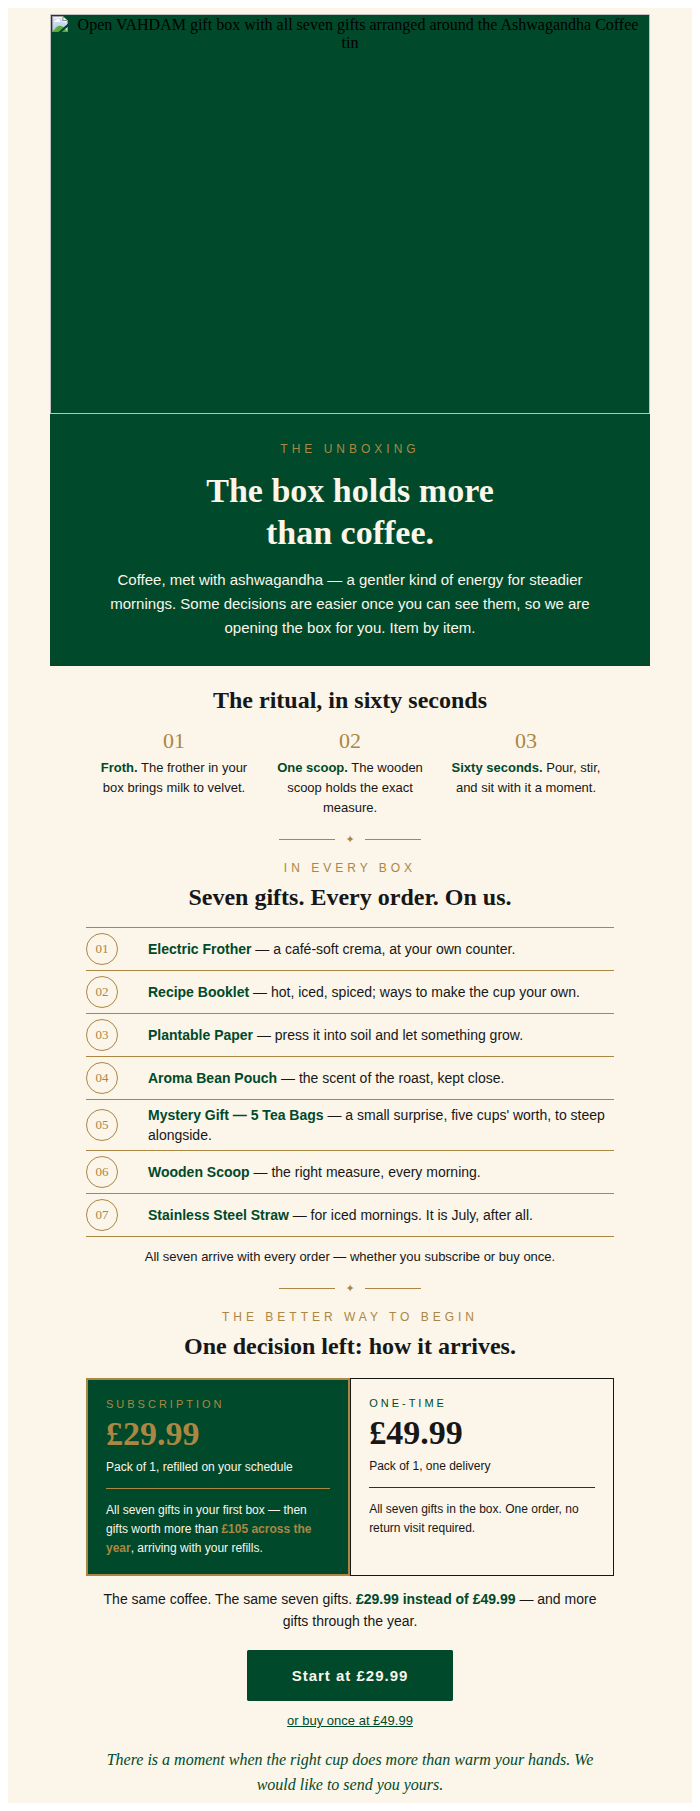
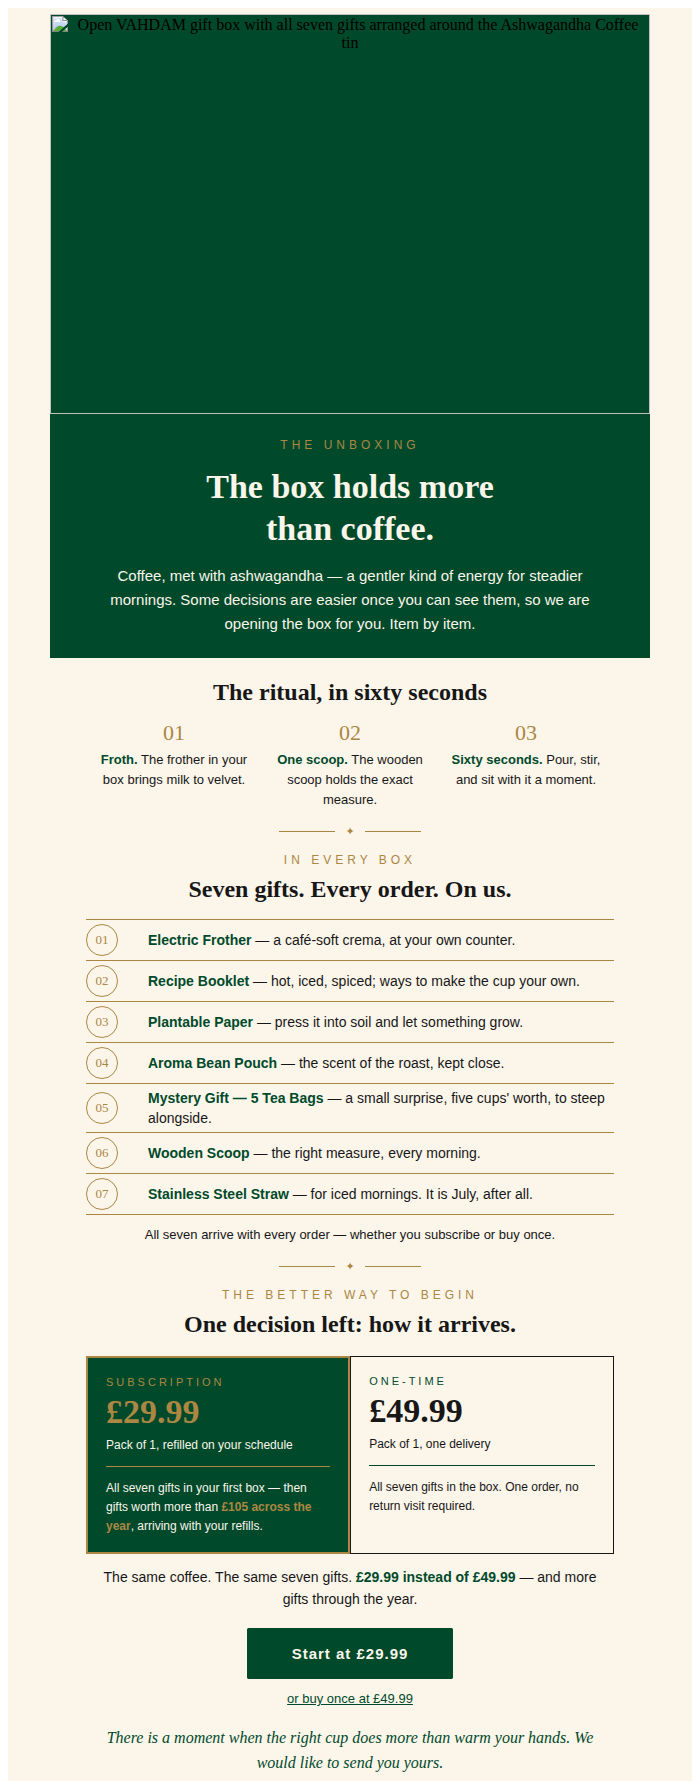
wip: cohort A enrichment in progress
Claude-Session: https://claude.ai/code/session_01YPMcExrEXCW3NKxJNMzABm

diff --git a/lifecycle-campaigns/2026-07-03_week1/emails/2026-07-06_cohortA_gifts-unboxing-subscription.html b/lifecycle-campaigns/2026-07-03_week1/emails/2026-07-06_cohortA_gifts-unboxing-subscription.html
@@ -29,7 +29,7 @@ Facts source: lifecycle-campaigns/2026-07-03_week1/facts.md — nothing claimed 
 
         <!-- ============ TYPOGRAPHIC HERO ============ -->
         <tr>
-          <td bgcolor="#004A2B" style="background-color:#004A2B;padding:28px 44px 26px 44px;">
+          <td bgcolor="#004A2B" style="background-color:#004A2B;padding:24px 44px 22px 44px;">
             <table role="presentation" width="100%" cellpadding="0" cellspacing="0" border="0">
               <tr>
                 <td align="center" style="font-family:'Proxima Nova','Helvetica Neue',Arial,sans-serif;font-size:12px;letter-spacing:4px;color:#AB8743;padding-bottom:14px;">THE UNBOXING</td>
@@ -104,46 +104,46 @@ Facts source: lifecycle-campaigns/2026-07-03_week1/facts.md — nothing claimed 
             <!-- Built graphic: numbered gold badge cells (bordered squares, border-radius as progressive enhancement) -->
             <table role="presentation" width="100%" cellpadding="0" cellspacing="0" border="0" style="border-top:1px solid #AB8743;">
               <tr>
-                <td width="50" valign="middle" style="padding:5px 0;border-bottom:1px solid #AB8743;">
+                <td width="50" valign="middle" style="padding:4px 0;border-bottom:1px solid #AB8743;">
                   <table role="presentation" cellpadding="0" cellspacing="0" border="0"><tr><td width="30" height="30" align="center" valign="middle" style="width:30px;height:30px;border:1px solid #AB8743;border-radius:50%;font-family:'Lao MN','Cormorant Garamond',Georgia,serif;font-size:13px;line-height:30px;color:#AB8743;">01</td></tr></table>
                 </td>
-                <td valign="middle" style="padding:5px 4px 5px 12px;font-family:'Proxima Nova','Helvetica Neue',Arial,sans-serif;font-size:14px;line-height:20px;color:#171717;border-bottom:1px solid #AB8743;"><strong style="color:#004A2B;">Electric Frother</strong> &mdash; a caf&eacute;-soft crema, at your own counter.</td>
+                <td valign="middle" style="padding:4px 4px 4px 12px;font-family:'Proxima Nova','Helvetica Neue',Arial,sans-serif;font-size:14px;line-height:20px;color:#171717;border-bottom:1px solid #AB8743;"><strong style="color:#004A2B;">Electric Frother</strong> &mdash; a caf&eacute;-soft crema, at your own counter.</td>
               </tr>
               <tr>
-                <td width="50" valign="middle" style="padding:5px 0;border-bottom:1px solid #AB8743;">
+                <td width="50" valign="middle" style="padding:4px 0;border-bottom:1px solid #AB8743;">
                   <table role="presentation" cellpadding="0" cellspacing="0" border="0"><tr><td width="30" height="30" align="center" valign="middle" style="width:30px;height:30px;border:1px solid #AB8743;border-radius:50%;font-family:'Lao MN','Cormorant Garamond',Georgia,serif;font-size:13px;line-height:30px;color:#AB8743;">02</td></tr></table>
                 </td>
-                <td valign="middle" style="padding:5px 4px 5px 12px;font-family:'Proxima Nova','Helvetica Neue',Arial,sans-serif;font-size:14px;line-height:20px;color:#171717;border-bottom:1px solid #AB8743;"><strong style="color:#004A2B;">Recipe Booklet</strong> &mdash; hot, iced, spiced; ways to make the cup your own.</td>
+                <td valign="middle" style="padding:4px 4px 4px 12px;font-family:'Proxima Nova','Helvetica Neue',Arial,sans-serif;font-size:14px;line-height:20px;color:#171717;border-bottom:1px solid #AB8743;"><strong style="color:#004A2B;">Recipe Booklet</strong> &mdash; hot, iced, spiced; ways to make the cup your own.</td>
               </tr>
               <tr>
-                <td width="50" valign="middle" style="padding:5px 0;border-bottom:1px solid #AB8743;">
+                <td width="50" valign="middle" style="padding:4px 0;border-bottom:1px solid #AB8743;">
                   <table role="presentation" cellpadding="0" cellspacing="0" border="0"><tr><td width="30" height="30" align="center" valign="middle" style="width:30px;height:30px;border:1px solid #AB8743;border-radius:50%;font-family:'Lao MN','Cormorant Garamond',Georgia,serif;font-size:13px;line-height:30px;color:#AB8743;">03</td></tr></table>
                 </td>
-                <td valign="middle" style="padding:5px 4px 5px 12px;font-family:'Proxima Nova','Helvetica Neue',Arial,sans-serif;font-size:14px;line-height:20px;color:#171717;border-bottom:1px solid #AB8743;"><strong style="color:#004A2B;">Plantable Paper</strong> &mdash; press it into soil and let something grow.</td>
+                <td valign="middle" style="padding:4px 4px 4px 12px;font-family:'Proxima Nova','Helvetica Neue',Arial,sans-serif;font-size:14px;line-height:20px;color:#171717;border-bottom:1px solid #AB8743;"><strong style="color:#004A2B;">Plantable Paper</strong> &mdash; press it into soil and let something grow.</td>
               </tr>
               <tr>
-                <td width="50" valign="middle" style="padding:5px 0;border-bottom:1px solid #AB8743;">
+                <td width="50" valign="middle" style="padding:4px 0;border-bottom:1px solid #AB8743;">
                   <table role="presentation" cellpadding="0" cellspacing="0" border="0"><tr><td width="30" height="30" align="center" valign="middle" style="width:30px;height:30px;border:1px solid #AB8743;border-radius:50%;font-family:'Lao MN','Cormorant Garamond',Georgia,serif;font-size:13px;line-height:30px;color:#AB8743;">04</td></tr></table>
                 </td>
-                <td valign="middle" style="padding:5px 4px 5px 12px;font-family:'Proxima Nova','Helvetica Neue',Arial,sans-serif;font-size:14px;line-height:20px;color:#171717;border-bottom:1px solid #AB8743;"><strong style="color:#004A2B;">Aroma Bean Pouch</strong> &mdash; the scent of the roast, kept close.</td>
+                <td valign="middle" style="padding:4px 4px 4px 12px;font-family:'Proxima Nova','Helvetica Neue',Arial,sans-serif;font-size:14px;line-height:20px;color:#171717;border-bottom:1px solid #AB8743;"><strong style="color:#004A2B;">Aroma Bean Pouch</strong> &mdash; the scent of the roast, kept close.</td>
               </tr>
               <tr>
-                <td width="50" valign="middle" style="padding:5px 0;border-bottom:1px solid #AB8743;">
+                <td width="50" valign="middle" style="padding:4px 0;border-bottom:1px solid #AB8743;">
                   <table role="presentation" cellpadding="0" cellspacing="0" border="0"><tr><td width="30" height="30" align="center" valign="middle" style="width:30px;height:30px;border:1px solid #AB8743;border-radius:50%;font-family:'Lao MN','Cormorant Garamond',Georgia,serif;font-size:13px;line-height:30px;color:#AB8743;">05</td></tr></table>
                 </td>
-                <td valign="middle" style="padding:5px 4px 5px 12px;font-family:'Proxima Nova','Helvetica Neue',Arial,sans-serif;font-size:14px;line-height:20px;color:#171717;border-bottom:1px solid #AB8743;"><strong style="color:#004A2B;">Mystery Gift &mdash; 5 Tea Bags</strong> &mdash; a small surprise, five cups' worth, to steep alongside.</td>
+                <td valign="middle" style="padding:4px 4px 4px 12px;font-family:'Proxima Nova','Helvetica Neue',Arial,sans-serif;font-size:14px;line-height:20px;color:#171717;border-bottom:1px solid #AB8743;"><strong style="color:#004A2B;">Mystery Gift &mdash; 5 Tea Bags</strong> &mdash; a small surprise, five cups' worth, to steep alongside.</td>
               </tr>
               <tr>
-                <td width="50" valign="middle" style="padding:5px 0;border-bottom:1px solid #AB8743;">
+                <td width="50" valign="middle" style="padding:4px 0;border-bottom:1px solid #AB8743;">
                   <table role="presentation" cellpadding="0" cellspacing="0" border="0"><tr><td width="30" height="30" align="center" valign="middle" style="width:30px;height:30px;border:1px solid #AB8743;border-radius:50%;font-family:'Lao MN','Cormorant Garamond',Georgia,serif;font-size:13px;line-height:30px;color:#AB8743;">06</td></tr></table>
                 </td>
-                <td valign="middle" style="padding:5px 4px 5px 12px;font-family:'Proxima Nova','Helvetica Neue',Arial,sans-serif;font-size:14px;line-height:20px;color:#171717;border-bottom:1px solid #AB8743;"><strong style="color:#004A2B;">Wooden Scoop</strong> &mdash; the right measure, every morning.</td>
+                <td valign="middle" style="padding:4px 4px 4px 12px;font-family:'Proxima Nova','Helvetica Neue',Arial,sans-serif;font-size:14px;line-height:20px;color:#171717;border-bottom:1px solid #AB8743;"><strong style="color:#004A2B;">Wooden Scoop</strong> &mdash; the right measure, every morning.</td>
               </tr>
               <tr>
-                <td width="50" valign="middle" style="padding:5px 0;border-bottom:1px solid #AB8743;">
+                <td width="50" valign="middle" style="padding:4px 0;border-bottom:1px solid #AB8743;">
                   <table role="presentation" cellpadding="0" cellspacing="0" border="0"><tr><td width="30" height="30" align="center" valign="middle" style="width:30px;height:30px;border:1px solid #AB8743;border-radius:50%;font-family:'Lao MN','Cormorant Garamond',Georgia,serif;font-size:13px;line-height:30px;color:#AB8743;">07</td></tr></table>
                 </td>
-                <td valign="middle" style="padding:5px 4px 5px 12px;font-family:'Proxima Nova','Helvetica Neue',Arial,sans-serif;font-size:14px;line-height:20px;color:#171717;border-bottom:1px solid #AB8743;"><strong style="color:#004A2B;">Stainless Steel Straw</strong> &mdash; for iced mornings. It is July, after all.</td>
+                <td valign="middle" style="padding:4px 4px 4px 12px;font-family:'Proxima Nova','Helvetica Neue',Arial,sans-serif;font-size:14px;line-height:20px;color:#171717;border-bottom:1px solid #AB8743;"><strong style="color:#004A2B;">Stainless Steel Straw</strong> &mdash; for iced mornings. It is July, after all.</td>
               </tr>
             </table>
             <table role="presentation" width="100%" cellpadding="0" cellspacing="0" border="0">
